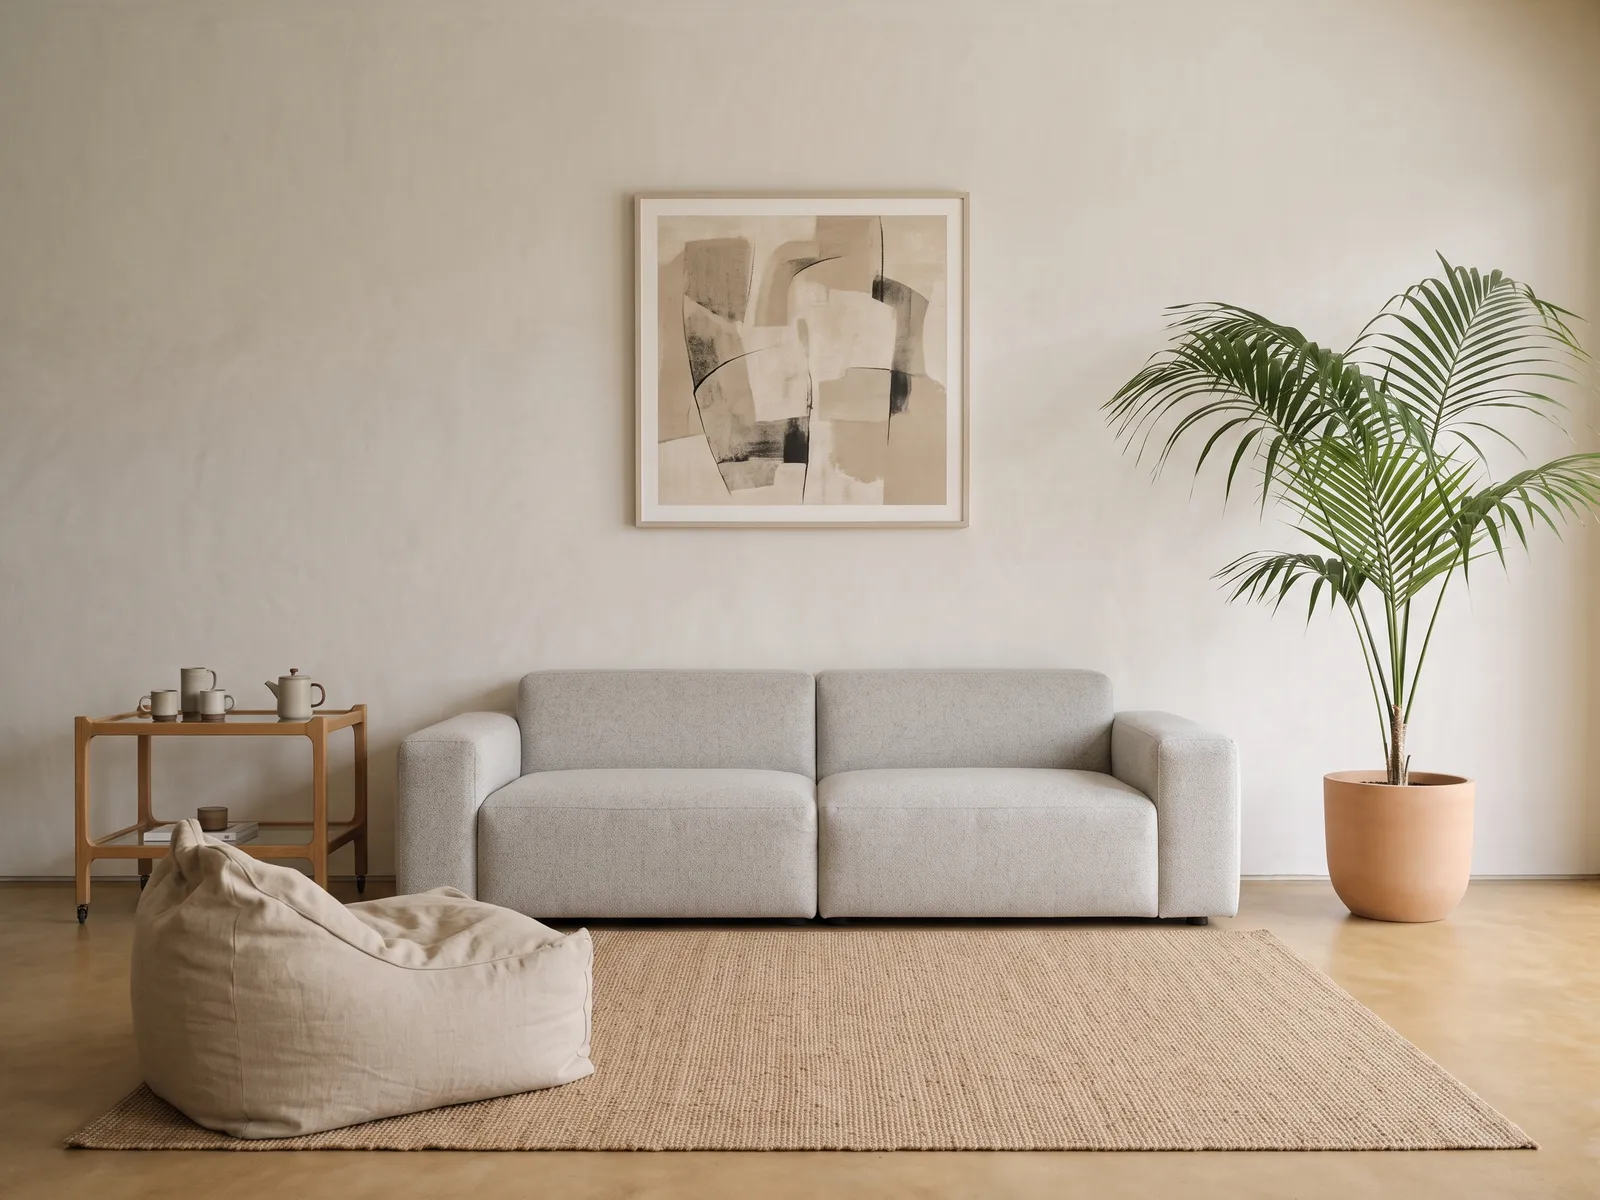
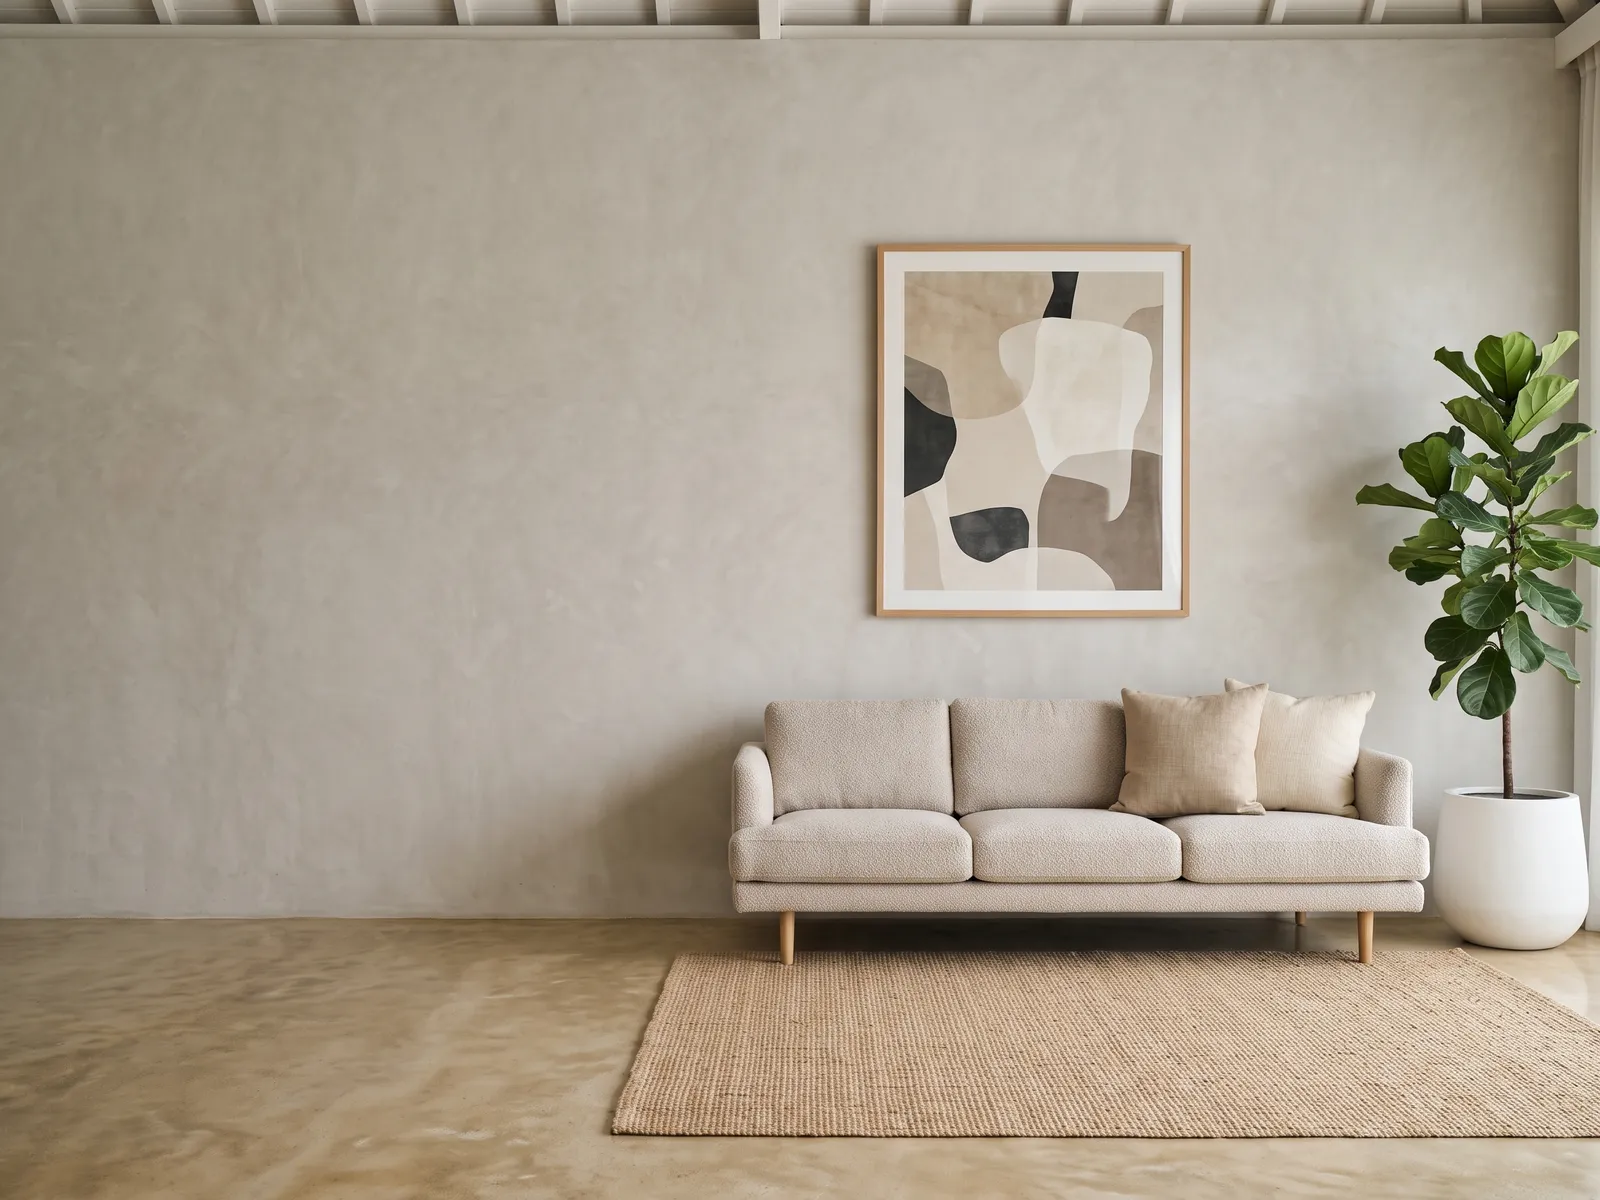
feat: photo lounge and garage with grounded add-ons
- Lounge: new photo with the sofa, fig tree, rug and art built in; add-ons
  are only the Coffee Station and Bean Bag (Sofa and Floor Plant removed).
- Garage: new compact garage photo with real-world scale cues; add-ons are
  Garage Space, a Yamaha NMAX (was Motorbike) and a Surfboard (Sport Gear
  removed). Garage Space card uses the garage photo.
- Items scaled from the scene's door/sofa and placed by their bottom edge
  on the floor; soft contact shadows baked into the NMAX, surfboard,
  coffee station and bean bag so they stand on the floor.

diff --git a/src/lib/catalog.ts b/src/lib/catalog.ts
@@ -62,6 +62,8 @@ export const MAX_MONITORS = 3;
 
 /** Horizontal center of the desks, % of scene width. */
 export const DESK_CENTER = 56;
+/** Where things placed against the lounge wall stand: just in front of the wall–floor line (76.8%), % of scene height. */
+export const LOUNGE_FLOOR = 79.5;
 /** Where monitor bases stand on the desk surface, % of scene height. */
 export const MONITOR_BASE = 46;
 
@@ -92,16 +94,13 @@ export const catalog: readonly CatalogItem[] = [
   { id: "desk-lamp", category: "accessory", group: "desk-accessory", name: "Desk Lamp", weeklyPrice: 6, image: "/items/desk-lamp.webp", layer: { z: 15, left: 31, bottom: MONITOR_BASE, width: 5.4 } },
 
   // Lounge zone — own scene
-  { id: "sofa", category: "accessory", group: "lounge", name: "Sofa", weeklyPrice: 35, image: "/items/sofa.svg", layer: { z: 10, left: 30, top: 44, width: 40 } },
-  { id: "bean-bag", category: "accessory", group: "lounge", name: "Bean Bag", weeklyPrice: 12, image: "/items/bean-bag.svg", layer: { z: 20, left: 14, top: 70, width: 16.25 } },
-  { id: "floor-plant", category: "accessory", group: "lounge", name: "Floor Plant", weeklyPrice: 7, image: "/items/floor-plant.svg", layer: { z: 8, left: 78, top: 42, width: 10 } },
-  { id: "coffee-station", category: "accessory", group: "lounge", name: "Coffee Station", weeklyPrice: 15, image: "/items/coffee-station.svg", layer: { z: 6, left: 8, top: 42, width: 15 } },
+  { id: "bean-bag", category: "accessory", group: "lounge", name: "Bean Bag", weeklyPrice: 12, image: "/items/bean-bag.webp", layer: { z: 20, left: 21, bottom: 96, width: 24 } },
+  { id: "coffee-station", category: "accessory", group: "lounge", name: "Coffee Station", weeklyPrice: 15, image: "/items/coffee-station.webp", layer: { z: 6, left: 8, bottom: LOUNGE_FLOOR, width: 18 } },
 
   // Garage — own scene; gear needs the garage space
-  { id: GARAGE_SPACE_ID, category: "accessory", group: "garage", name: "Garage Space", weeklyPrice: 40, image: "/items/garage-space.svg" },
-  { id: "motorbike", category: "accessory", group: "garage", name: "Motorbike", weeklyPrice: 60, image: "/items/motorbike.svg", layer: { z: 10, left: 32, top: 50, width: 36 } },
-  { id: "surfboard", category: "accessory", group: "garage", name: "Surfboard", weeklyPrice: 12, image: "/items/surfboard.svg", layer: { z: 5, left: 6, top: 24, width: 10 } },
-  { id: "sport-gear", category: "accessory", group: "garage", name: "Sport Gear", weeklyPrice: 10, image: "/items/sport-gear.svg", layer: { z: 12, left: 76, top: 60, width: 16 } },
+  { id: GARAGE_SPACE_ID, category: "accessory", group: "garage", name: "Garage Space", weeklyPrice: 40, image: "/items/garage-space.webp" },
+  { id: "motorbike", category: "accessory", group: "garage", name: "Yamaha NMAX", weeklyPrice: 60, image: "/items/motorbike.webp", layer: { z: 10, left: 25, bottom: 97, width: 52 } },
+  { id: "surfboard", category: "accessory", group: "garage", name: "Surfboard", weeklyPrice: 12, image: "/items/surfboard.webp", layer: { z: 5, left: 12, bottom: 83, width: 11.2 } },
 ];
 
 const byId = new Map(catalog.map((item) => [item.id, item]));
@@ -155,8 +154,8 @@ export const hotspots: readonly { group: Group; x: number; y: number }[] = [
   { group: "desk", x: 37, y: 55 },
   { group: "chair", x: 56, y: 62 },
   { group: "desk-accessory", x: 79, y: 39 },
-  { group: "lounge", x: 50, y: 58 },
-  { group: "garage", x: 50, y: 64 },
+  { group: "lounge", x: 22, y: 64 },
+  { group: "garage", x: 50, y: 72 },
 ];
 
 export function formatPrice(amount: number): string {

diff --git a/src/lib/configurator.test.ts b/src/lib/configurator.test.ts
@@ -29,22 +29,19 @@ describe("catalog", () => {
       '27" 4K Monitor': 20,
       "Desk Plant": 5,
       "Desk Lamp": 6,
-      Sofa: 35,
       "Bean Bag": 12,
-      "Floor Plant": 7,
       "Coffee Station": 15,
       "Garage Space": 40,
-      Motorbike: 60,
+      "Yamaha NMAX": 60,
       Surfboard: 12,
-      "Sport Gear": 10,
     });
     expect(itemsInCategory("desk")).toHaveLength(2);
     expect(itemsInCategory("chair")).toHaveLength(3);
     expect(itemsInCategory("monitor")).toHaveLength(2);
-    expect(itemsInCategory("accessory")).toHaveLength(10);
+    expect(itemsInCategory("accessory")).toHaveLength(7);
     expect(itemsInGroup("desk-accessory").map((i) => i.id)).toEqual(["plants", "desk-lamp"]);
-    expect(itemsInGroup("lounge").map((i) => i.id)).toEqual(["sofa", "bean-bag", "floor-plant", "coffee-station"]);
-    expect(itemsInGroup("garage").map((i) => i.id)).toEqual(["garage-space", "motorbike", "surfboard", "sport-gear"]);
+    expect(itemsInGroup("lounge").map((i) => i.id)).toEqual(["bean-bag", "coffee-station"]);
+    expect(itemsInGroup("garage").map((i) => i.id)).toEqual(["garage-space", "motorbike", "surfboard"]);
   });
 
   it("has one on-scene hotspot per group", () => {
@@ -129,10 +126,10 @@ describe("monitors", () => {
 
 describe("accessories", () => {
   it("toggles Plants off without affecting others", () => {
-    const s: Selection = { ...emptySelection, accessoryIds: ["plants", "sofa"] };
+    const s: Selection = { ...emptySelection, accessoryIds: ["plants", "bean-bag"] };
     const next = reduce(s, { type: "toggleAccessory", id: "plants" });
-    expect(next.accessoryIds).toEqual(["sofa"]);
-    expect(reduce(next, { type: "toggleAccessory", id: "plants" }).accessoryIds).toEqual(["sofa", "plants"]);
+    expect(next.accessoryIds).toEqual(["bean-bag"]);
+    expect(reduce(next, { type: "toggleAccessory", id: "plants" }).accessoryIds).toEqual(["bean-bag", "plants"]);
   });
 });
 
@@ -150,8 +147,8 @@ describe("garage rule", () => {
   });
 
   it("removing the garage space removes all gear but nothing else", () => {
-    const s: Selection = { ...emptySelection, accessoryIds: ["plants", "motorbike", "garage-space", "sport-gear", "sofa"] };
-    expect(reduce(s, { type: "toggleAccessory", id: "garage-space" }).accessoryIds).toEqual(["plants", "sofa"]);
+    const s: Selection = { ...emptySelection, accessoryIds: ["plants", "motorbike", "garage-space", "surfboard", "bean-bag"] };
+    expect(reduce(s, { type: "toggleAccessory", id: "garage-space" }).accessoryIds).toEqual(["plants", "bean-bag"]);
   });
 
   it("garage space alone is allowed", () => {
@@ -282,6 +279,6 @@ describe("removeProduct (details sheet)", () => {
     const s: Selection = { ...emptySelection, deskId: "desk-oak-standing", chairId: "chair-gaming" };
     expect(removeProduct(s, "desk-oak-standing")).toBeNull();
     expect(removeProduct(s, "chair-gaming")).toBeNull();
-    expect(removeProduct(s, "sofa")).toBeNull();
+    expect(removeProduct(s, "bean-bag")).toBeNull();
   });
 });

diff --git a/src/lib/productDetails.ts b/src/lib/productDetails.ts
@@ -125,31 +125,12 @@ export const productDetails: Readonly<Record<string, ProductDetails>> = {
   },
 
   // Lounge zone
-  sofa: {
-    description: "A three-seat sofa with deep cushions for breaks, reading or casual meetings.",
-    specs: [
-      s("Dimensions", "210 × 90 × 85 cm"),
-      s("Seats", "3"),
-      s("Upholstery", "Performance fabric, grey"),
-      s("Legs", "Solid oak"),
-    ],
-    images: [],
-  },
   "bean-bag": {
     description: "An oversized bean bag that shapes to you, with a washable cover.",
     specs: [
       s("Dimensions", "100 × 90 cm"),
       s("Cover", "Removable, machine washable"),
       s("Fill", "Recycled EPS beads"),
-    ],
-    images: [],
-  },
-  "floor-plant": {
-    description: "A tall, low-maintenance floor plant in a matte planter that softens any corner.",
-    specs: [
-      s("Height", "About 120 cm"),
-      s("Planter", "Matte ceramic, 30 cm"),
-      s("Care", "Bright indirect light, water weekly"),
     ],
     images: [],
   },
@@ -175,11 +156,12 @@ export const productDetails: Readonly<Record<string, ProductDetails>> = {
     images: [],
   },
   motorbike: {
-    description: "A light, easy-to-ride city motorbike for commuting and weekend trips. Helmet included.",
+    description: "A Yamaha NMAX, the comfortable automatic maxi-scooter you see all over Bali — easy for daily rides and weekend trips. Helmet included.",
     specs: [
-      s("Engine", "125 cc, single cylinder"),
-      s("Licence", "A1 or equivalent"),
-      s("Fuel economy", "About 45 km/L"),
+      s("Engine", "155 cc, single cylinder, automatic"),
+      s("Licence", "A (motorcycle) or equivalent"),
+      s("Fuel economy", "About 40 km/L"),
+      s("Features", "Under-seat storage, ABS"),
       s("Includes", "1 helmet, disc lock"),
     ],
     images: [],
@@ -191,15 +173,6 @@ export const productDetails: Readonly<Record<string, ProductDetails>> = {
       s("Construction", "Soft foam top, HDPE bottom"),
       s("Volume", "56 L"),
       s("Includes", "Leash, 3 fins"),
-    ],
-    images: [],
-  },
-  "sport-gear": {
-    description: "A home fitness kit with adjustable dumbbells, a yoga mat and resistance bands.",
-    specs: [
-      s("Dumbbells", "2 × adjustable, 2–12 kg"),
-      s("Mat", "Yoga mat, 6 mm"),
-      s("Bands", "3 resistance levels"),
     ],
     images: [],
   },

diff --git a/src/lib/productDetails.test.ts b/src/lib/productDetails.test.ts
@@ -35,7 +35,7 @@ describe("product details", () => {
 
 describe("gallerySlides", () => {
   it("main image, then the in-space view, with no empty slots when there are no extra photos", () => {
-    const item = catalog.find((i) => i.id === "sofa")!;
+    const item = catalog.find((i) => i.id === "coffee-station")!;
     const slides = gallerySlides(item, "Lounge");
     expect(slides.map((s) => s.kind)).toEqual(["image", "scene"]);
     expect(slides[0]).toMatchObject({ kind: "image", src: item.image });

diff --git a/_bmad-output/spec-design-your-workspace/.memlog.md b/_bmad-output/spec-design-your-workspace/.memlog.md
@@ -1,6 +1,6 @@
 ---
 topic: design-your-workspace: visual configurator for renting a workspace setup
-updated: 2026-09-29T19:39
+updated: 2026-09-29T19:55
 ---
 
 - (direction) User input: visual builder/product configurator for renting a workspace; user chooses monitors, chair, desk and other accessories; visual changes based on selection.
@@ -49,3 +49,5 @@ updated: 2026-09-29T19:39
 - (decision) Removed Walnut Executive Desk (photo cut-out never sat right); desks are Minimal White and Oak Standing. Triple Monitor and Gaming presets now use the Oak Standing Desk.
 - (decision) Removed Executive Leather Chair; chairs are Lounge Task, Ergo Mesh, Gaming. Triple Monitor preset now uses the Ergo Mesh Chair.
 - (decision) Removed Headphones (Gemini could not produce a level front view); desk accessories are Desk Plant and Desk Lamp.
+- (decision) Lounge scene now includes a sofa and floor plant as fixed decor; lounge add-ons are only Coffee Station and Bean Bag (Sofa and Floor Plant removed from the catalog).
+- (decision) Removed Sport Gear; motorbike is now a Yamaha NMAX 155 (common Indonesian maxi-scooter). Garage add-ons: Garage Space, Yamaha NMAX, Surfboard.

diff --git a/_bmad-output/spec-design-your-workspace/catalog.md b/_bmad-output/spec-design-your-workspace/catalog.md
@@ -8,7 +8,7 @@ Seed catalog, shipped as static data. Every item carries a name, its own image a
 | Chair | exactly one | Lounge Task Chair ($20), Ergo Mesh Chair ($25), Gaming Chair ($30) |
 | Monitors | 0–3; same model may repeat | 24" Full HD Monitor ($12), 27" 4K Monitor ($20) |
 | Desk accessories (workspace scene) | zero or more, one of each | Desk Plant ($5), Desk Lamp ($6) |
-| Lounge zone (own scene) | zero or more, one of each | Sofa ($35), Bean Bag ($12), Floor Plant ($7), Coffee Station ($15) |
-| Garage (own scene) | zero or more, one of each; gear requires Garage Space | Garage Space ($40), Motorbike ($60), Surfboard ($12), Sport Gear ($10) |
+| Lounge zone (own scene) | zero or more, one of each | Bean Bag ($12), Coffee Station ($15) — the sofa and floor plant are part of the lounge scene |
+| Garage (own scene) | zero or more, one of each; gear requires Garage Space | Garage Space ($40), Yamaha NMAX scooter ($60), Surfboard ($12) |
 
 Only compatibility rule: garage gear requires the Garage Space (adding gear adds it; removing it removes the gear). The monitor cap of 3 gives the layered preview fixed slots.
